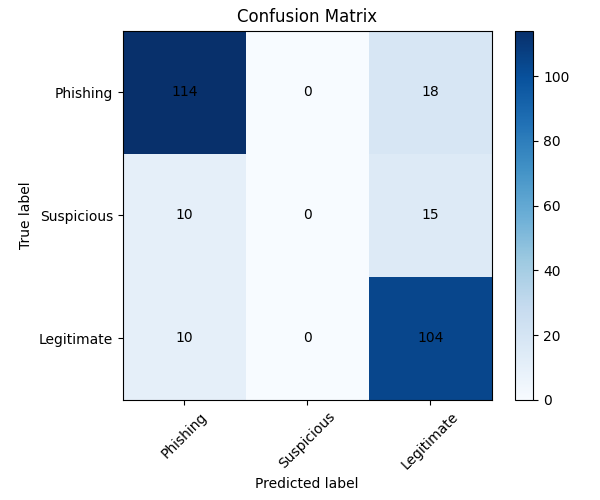
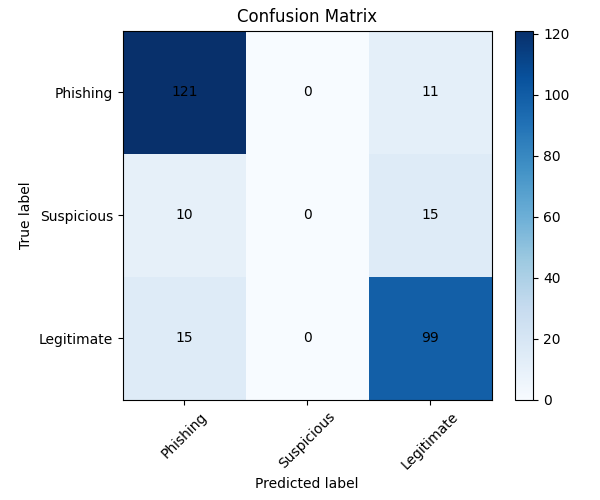
Readme

diff --git a/README.md b/README.md
@@ -9,3 +9,178 @@ Things to mention:
 
 - I need to evaluate the model (later compare it with normal backpropargation)
 - I need to explain every plot
+
+
+
+
+
+
+Contribution Percentage: 100% — I completed the entire Task 2 by myself.
+
+Justification (why & how):
+
+Background & motivation: I have been accepted as an AI Engineer intern at the National Bank of Austria, and developing neural networks and deep learning is my primary area of interest. That motivated me to both implement and compare learning approaches to deepen my practical understanding.
+Scope of work: I implemented both a Genetic Algorithm (GA) training workflow and a Backpropagation (BP) training workflow for a simple MLP, then implemented evaluation and visualization to compare them. I intentionally implemented both methods so I could directly observe differences in training dynamics, robustness, convergence behavior, and final performance.
+What I implemented (high level):
+Designed and implemented a SimpleMLP model (input → hidden → output).
+GA support: parameter flattening / reloading, tournament selection, uniform crossover, mutation, population initialization, generation loop, and tracking fitness_history.
+Backprop support: PyTorch training loop with mini-batches, Adam optimizer, per-epoch monitoring and test_accs.
+Evaluation & visualization: confusion matrix plot, fitness-history plot, and a simple GA vs Backprop comparison cell.
+Saved results and plots to files and kept trained models in variables for later analysis (see Task_2_advanced.ipynb).
+Choice of target/problem: I did not pursue a fault-tolerance target because the dataset I used provides phishing-related target labels; I selected the dataset that matched the available target values and the assignment's allowed datasets.
+Randomness / seed decision: I did not fix a global random seed. Although seeding can make experiments reproducible, for this dataset size I prioritized natural variation and aiming for best achievable accuracy rather than forcing deterministic runs; the evaluation runs are reasonably fast and results are stable enough for comparison. (Note: if strict reproducibility is required, a seed can be added easily.)
+Preprocessing: The dataset documentation indicated no missing values, so no missing-value imputation was necessary. I remapped target classes to {0,1,2} for PyTorch compatibility and converted features/labels to tensors.
+Special approach / personal contribution style:
+
+I focused on clarity and pedagogy: implementing each component (model, GA genome encoding, genetic operators, training loops) in a straightforward, readable way to make later interpretation easier.
+I deliberately implemented the GA by directly manipulating flattened parameter vectors and reloading them into the model—this made the comparison to backprop clearer (weights updated as genomes vs. gradient updates).
+I tracked simple, interpretable metrics (fitness_history, test_accs) and added lightweight plotting (confusion matrix, fitness over generations, accuracy per epoch) to make side-by-side comparison immediate for a reader.
+Notes / dataset specifics:
+
+The dataset contains three target labels (mapped from {-1,0,1} → {0,1,2}); label mapping and class names are used in evaluation plots.
+No missing values were present according to the dataset description, so no imputation or complex preprocessing steps were required.
+Open next step (left for later):
+
+Interpretation and comparison of model behaviors and results (detailed analysis of confusion matrices, convergence patterns, per-class performance, and trade-offs) — I leave this analysis step open until the notebook is executed to produce the actual numeric results and plots. Once you want that, I can run the notebook, collect outputs, and produce the interpretation section.
+Reference: implementation and code are in Task_2_advanced.ipynb.
+
+GPT-5 mini • 0x
+
+
+
+
+
+
+
+
+
+
+
+
+
+
+
+
+
+
+
+
+
+
+
+
+
+
+
+
+
+
+
+
+
+
+
+
+
+
+
+
+
+Own Contribution Document – Task 2
+
+Name: Florian Köhl
+Contribution: 100% of Task 2
+
+Justification (why & how)
+
+I completed Task 2 entirely on my own. My motivation for investing additional effort into this task is that I have already been accepted as an AI Engineer Intern at the National Bank of Austria, and neural networks and deep learning are my primary areas of interest. I therefore chose to treat this task not only as an assignment, but also as a learning opportunity.
+
+Scope of implementation
+- Design and implementation of a 3-layer MLP
+- GA training: genome encoding, selection, crossover, mutation, fitness tracking
+- BP training: mini-batch training loop, Adam optimizer, loss tracking
+- Evaluation: accuracy, precision, recall, F1-score, confusion matrices, and training dynamics plots
+
+
+
+
+
+
+
+
+
+
+
+
+
+
+
+
+
+
+
+
+
+
+
+
+Task 2 – Application of Genetic Algorithm for Training ANN
+Author: Florian Köhl
+
+In Task 2, a three-layer Multi-Layer Perceptron (MLP) was implemented and trained using a Genetic Algorithm (GA) for a multi-class classification problem. The dataset was split into training and test sets (80/20), and appropriate evaluation metrics such as accuracy, precision, recall, F1-score, and confusion matrices were used to assess performance.
+
+In addition to the GA-based training, a Backpropagation-based training approach was implemented for the same network architecture. This allowed for a direct comparison between evolutionary optimization and gradient-based learning in terms of convergence behavior, robustness, and final classification performance.
+
+
+Special approach and contributions
+- I implemented both a Genetic Algorithm (GA) and a Backpropagation (BP) training workflow for the same MLP architecture.
+This was done intentionally, as I believe the direct comparison between evolutionary and gradient-based learning provides the strongest learning effect.
+- I did not focus on fault-tolerance prediction, but instead selected a classification problem aligned with the available target values of the chosen dataset (phishing-related labels), which is explicitly allowed by the assignment.
+- According to the dataset documentation, no missing values were present, so no imputation or additional preprocessing steps were required.
+
+
+Comparison: Genetic Algorithm (GA) vs. Backpropagation (BP)
+
+Both approaches achieved similar overall test performance on the phishing dataset. This shows that, at a high level, both GA-based training and gradient-based backpropagation are capable of learning a reasonable decision boundary for the problem.
+However, a class-wise analysis reveals important differences.
+
+Suspicious class (minority class)
+The Genetic Algorithm completely failed to detect the Suspicious class.
+Precision = 0.00, Recall = 0.00
+No samples were predicted as Suspicious, as also visible in the confusion matrix.
+Backpropagation performed better on this minority class, detecting instances and achieving non-zero recall.
+This highlights a key limitation of the GA approach in this setup: fitness optimization driven mainly by overall accuracy led to neglecting the smallest class, which has little influence on the global fitness score.
+
+Overall behavior
+
+GA
+- Robust, gradient-free optimization
+- Slower convergence
+- Tends to favor majority classes
+- Less effective for imbalanced data without explicit fitness weighting
+
+Backpropagation
+- Faster and more stable convergence
+- Better handling of minority classes
+- More sample-efficient
+- Scales better with dataset size and complexity
+
+Conclusion
+While both methods reached comparable overall accuracy, Backpropagation clearly outperformed the Genetic Algorithm in class-sensitive performance, especially for the Suspicious class. This makes BP the more suitable approach for practical phishing detection, where detecting rare but critical cases is essential.
+
+
+
+
+
+
+
+
+
+
+
+
+
+
+
+
+
